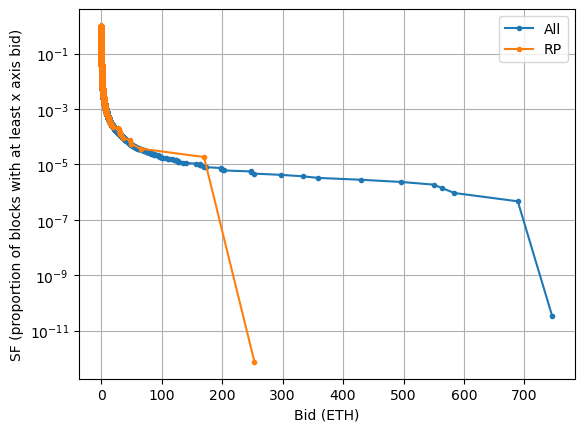
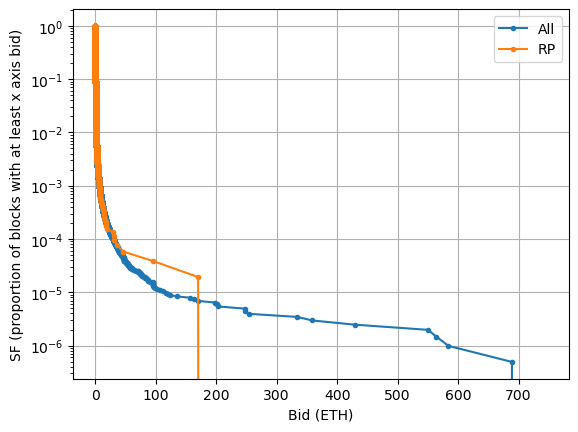
Analysis side submission candidate

diff --git a/analysis.py b/analysis.py
@@ -382,19 +382,9 @@ def main():
                     'eth_collat_ratio': wei2eth,  # (node capital + user capital) / node capital
                 }))
     df = pd.concat(df_ls)
-
     end_slot = int(p.name.split('-')[3].split('.')[0])
     assert end_slot != 0  # maybe hits if there's no data
-    slots = len(df)
-    wks = (slots * 12) / (60 * 60 * 24 * 7)
-    range_slots = end_slot - start_slot
-    range_wks = (range_slots * 12) / (60 * 60 * 24 * 7)
-    rethdict = get_rethdict(start_slot, end_slot)
-    print(f'Analyzing {wks:0.1f} weeks of data ({slots} slots)')
-    print(f' {100*slots/range_slots:0.1f}% of range; {range_wks:0.1f} weeks ({range_slots} slots)')
-    print('')
 
-    df = df[df['proposer_index'].notna()]  # get rid of slots without a block
     df['is_vanilla'] = df['mev_reward'].isna()  # make a convenience column
     try:
         assert ((sum(df['avg_fee'] > 0.2) + sum(df['avg_fee'] < 0.05)) == 0)  # sanity check
@@ -405,10 +395,27 @@ def main():
             print(over20)
         under5 = df[df['avg_fee'] < 0.05]
         if len(under5):
-            print('ERROR: under 5%')
+            print('ERROR: under 5%; related to incomplete solo migrations;'
+                  'setting is_rocketpool to False')
             print(under5)
+            df.loc[df['avg_fee'] < 0.05, 'is_rocketpool'] = False
     df['reth_portion'] = (1 - (df['avg_fee'])) * (1 - (1 / df['eth_collat_ratio']))
     df.set_index('slot', inplace=True)
+
+    # Slot 5203679 is when the grace period ended
+    penalty_start_slot = 5203679
+    df = df[df.index >= penalty_start_slot]
+    start_slot = max(start_slot, penalty_start_slot)
+
+    # Show total timeframe and get reth performance in that timeframe
+    slots = len(df)
+    wks = (slots * 12) / (60 * 60 * 24 * 7)
+    range_slots = end_slot - start_slot + 1
+    range_wks = (range_slots * 12) / (60 * 60 * 24 * 7)
+    rethdict = get_rethdict(start_slot, end_slot)
+    print(f'Analyzing {wks:0.1f} weeks of data ({slots} slots)')
+    print(f' {100*slots/range_slots:0.1f}% of range; {range_wks:0.1f} weeks ({range_slots} slots)')
+    print('')
 
     # find and set BID2REWARD
     global BID2REWARD
@@ -417,6 +424,7 @@ def main():
     BID2REWARD = df['temp'].mean()
     df.drop('temp', axis=1)
 
+    df = df[df['proposer_index'].notna()]  # get rid of slots without a block
     df = fix_bloxroute_missing_bids(df.copy())
 
     c_rcpt_mev = recipient_losses_mevboost(df.copy(), wks, rethdict.copy())

diff --git a/README.md b/README.md
@@ -4,9 +4,12 @@ fees and MEV, and detecting MEV theft. Built for the Rocket Pool GMC's
 [Bounty BA032304](https://dao.rocketpool.net/t/july-2023-gmc-call-for-bounty-applications-deadline-is-july-15th/1936/6).
 
 ## Analysis
-We'll start high level and then go deeper.
+We'll start high level and then go specific.
+We analyze 40.7 weeks of data, starting right after the MEV grace period ended at slot 5203679
+(2022-11-24 05:35:39Z UTC); see
+https://discord.com/channels/405159462932971535/405163979141545995/1044108182513012796.
 
-This first draft is looking at ~19 weeks of data.
+
 
 ### Global vs RP sanity check
 | ![image](./results/global_vs_rp.png)   | ![image](./results/global_vs_rp_loglog.png) |
@@ -31,23 +34,23 @@ be relied on, which is what we'd expect -- no evidence for different "luck" betw
 
 The plots above are likely the most important item in this analysis. They show whether we routinely
 see high bids on slots where either the recipient is wrong, vanilla blocks are used, or both. If we
-see these issues, especially for lottery blocks, that would be significant evidence of theft.
+routinely see these issues for lottery blocks, that would be significant evidence of theft.
 
 Evidence for this would look like an orange line being to the upper right of the blue line. Even
 more telling would be if this excursion only happened for blocks with high bids. We do not see any
 such evidence.
 
 - First row:
-  - 🚩 The line looks weird. The wrong recipient line is to the upper right of the blue line for the
-    0.1-0.4 ETH region. This is about 7 cases, so fairly sparse and potentially possible due to
-    chance. It's also not "worth" stealing as a penalty should be applied and will make this size
-    theft a net loss.
   - Overall, incorrect fee recipients using MEV boost are super rare; they follow the reference
-    well for most of the curve and have no real lotto blocks to date
-- Second row: if anything, it looks like RP blocks occur in slots with lower max bids. One theory to
-  explain this would be that folks likely to use vanilla blocks don't use many relays, which means
-  they get smaller max-bids on average. Another theory is that we don't see the lines diverge until
-  we're starting to get sparser, so it may simply be happenstance.
+    well for most of the curve and have no real lotto blocks to date.
+  - 🤔 The line looks a little weird. The wrong recipient line is to the upper right of the blue
+    line for the 0.2-0.4 ETH region. This is only a handful of cases, so fairly sparse and
+    likely due to chance. It's also not "worth" stealing as a penalty should be applied and will
+    make this size theft a net loss.
+- Second row: if anything, it looks like vanilla blocks are underrepresented in slots with high max
+  bids. One theory to explain this would be that folks likely to use vanilla blocks don't use many
+  relays, which means they get smaller max-bids on average. Another (imo less likely) theory is that
+  we don't see the lines diverge until we're starting to get sparser, so it may simply be chance.
 - Third row: these match as well as plausible.
 
 It's important to recognize a couple of limitations. First, the sample size for large blocks is very
@@ -69,100 +72,77 @@ that block.
 
 There's no significant difference.
 
-### Current losses
-
-Running `analysis.py` provides some text in addition to making the plots:
-
-```
-Analyzing 43.0 weeks of data (2165000 slots)
- 95.6% of range; 44.9 weeks (2264999 slots)
- 
-Filled in proxy max_bids for 22113 slots; 21027 were missingbloxroute max_bids
-
-=== MEV-Boost Recipient losses  (see results/recipient_losses.csv) ===
-1: 18 of 48699 MEV-boost slots used wrong fee recipient
-3a: 1.328 total ETH lost due to wrong fee recipient
-  Top 5 losses: 0.30, 0.23, 0.14, 0.12, 0.09
-3b: 0.031 ETH lost per week
-3c: APY was 4.411% when it should have been 4.412%
- aka, a 0.01% performance hit
-
-=== Vanilla Recipient losses (see results/vanilla_losses.csv) ===
- 830 of 5193 vanilla slots used wrong fee recipient (see results/recipient_losses_vanilla.csv)
-~46.945 total ETH lost due to wrong fee recipient
-  Top 5 losses: 1.51, 1.30, 0.80, 0.72, 0.67
-~1.093 ETH lost per week
- APY was ~4.411% when it should have been 4.422%
- aka, a 0.25% performance hit
-NB: We take a stab at vanilla losses using 90% of max_bid or sum of priority_fees, but it's possible for vanilla blocks without max_bid to hide offchain fees
-
-=== Non-recipient vanilla losses (see results/vanilla_losses.csv) ===
-There were 4363 vanilla RP blocks w/correct recipient
-  3576 had bids; we can get ~loss
-  787 had no bid; we'll use nearby bids as a guess
-4a: ~188.868 ETH lost due to not using relays (or theft)
-  Top 5 losses: 17.23, 5.54, 5.10, 5.07, 3.00
-4b: ~4.397 ETH lost per week
-4c: APY was 4.411% when it could have been ~4.455%
- aka, a 0.99% performance hit
-
-Sanity checking 2 ways of estimating the unknown loss: 49.705 vs 27.776
- if first method is much higher, that means we're seeing vanilla block more often than expected during periods that tend to have high max bids, which is a yellow flag... do note that outliers can move these a lot with respect to each other
-WARNING: 18 slots had no nearby max_bids;filling with mean max_bid
-
-```
-
-Some takeaways:
-- 🚩 There are much too many vanilla blocks with wrong recipient - around 16% of vanilla blocks!
-  - These haven't been a huge loss (0.1% performance), but this loss can appropriately be penalized
-- Vanilla blocks in general have been a significant loss (0.99% degradation in performance)
-  - Note that ~9% of that is a single block
-
 ### Vanilla blocks: RP vs nonRP sanity check
 | ![image](./results/vanilla_rp_vs_nonrp.png) | ![image](./results/vanilla_rp_vs_nonrp_loglog.png) |
 |:-------------------------------------------:|:--------------------------------------------------:|
 
 The plot above shows a survival function for bids on RP vanilla blocks vs non-RP vanilla blocks.
-Ideally we'd expect the same curves to be followed. They mostly are, and we can guess that the
-slightly lower RP values are due to vanilla RP users having fewer relays registered which leads to
-lower max bids.
+Ideally we'd expect the same curves to be followed. They mostly are.
+
+
+### Current losses
+
+Running `analysis.py` provides some text in addition to making the plots:
+
+```
+Analyzing 40.7 weeks of data (2051321 slots)
+ 100.0% of range; 40.7 weeks (2051321 slots)
+
+bid2reward: mean=0.906 median=0.952
+
+Filled in proxy max_bids for 19363 slots; 18280 were missingbloxroute max_bids
+
+=== MEV-Boost Recipient losses  (see results/recipient_losses.csv) ===
+1: 13 of 46987 MEV-boost slots used wrong fee recipient
+3a: 0.874 total ETH lost due to wrong fee recipient
+  Top 5 losses: 0.23, 0.14, 0.12, 0.09, 0.08
+3b: 0.021 ETH lost per week
+3c: APY was 4.401% when it should have been 4.401%
+ aka, a 0.00% performance hit
+
+=== Vanilla Recipient losses (see results/vanilla_losses.csv) ===
+ 688 of 4789 vanilla slots used wrong fee recipient (see results/recipient_losses_vanilla.csv)
+~37.048 total ETH lost due to wrong fee recipient
+  Top 5 losses: 1.30, 0.80, 0.72, 0.67, 0.58
+~0.910 ETH lost per week
+ APY was ~4.401% when it should have been 4.410%
+ aka, a 0.21% performance hit
+NB: We take a stab at vanilla losses using 90% of max_bid or sum of priority_fees, but it's possible
+for vanilla blocks without max_bid to hide offchain fees
+
+=== Non-recipient vanilla losses (see results/vanilla_losses.csv) ===
+There were 4101 vanilla RP blocks w/correct recipient
+  3442 had bids; we can get ~loss
+  659 had no bid; we'll use nearby bids as a guess
+4a: ~165.494 ETH lost due to not using relays (or theft)
+  Top 5 losses: 17.24, 5.10, 5.07, 3.00, 2.77
+4b: ~4.066 ETH lost per week
+4c: APY was 4.401% when it could have been ~4.441%
+ aka, a 0.91% performance hit
+
+Sanity checking 2 ways of estimating the unknown loss: 43.371 vs 20.129
+ if first method is much higher, that means we're seeing vanilla block more often than expected
+ during periods that tend to have high max bids, which is a yellow flag... do note that outliers can
+ move these a lot with respect to each other
+```
+
+Some takeaways:
+- 🚩 There are much too many vanilla blocks with wrong recipient - around 14% of vanilla blocks!
+  - These haven't been a huge loss (0.21% performance), but it's not negligible and should be
+    penalized properly
+- Vanilla blocks in general have been a significant loss (0.91% degradation in performance)
+  - Note that ~10.4% of that is a single block
+
 
 ### Conclusions
-- 🚩❓ Something is potentially weird about the bad recipient MEV boost data.
-  - It doesn't appear like it would be profitable in the face of penalties
-  - We should assign penalties
 - 🚩 There are much too many vanilla blocks with wrong recipient - around 16% of vanilla blocks!
   - We should assign penalties
   - We should consider other mitigation (eg, disallow vanilla blocks entirely)
+- We should assign penalties for bad recipient using MEV boost as well
 - Losses are a small, but not totally negligible, decrease in performance
-  - MEV bad recipient: 0.01%
-  - Vanilla bad recipient: 0.25%
-  - Vanilla correct recipient: 0.99%
-  - This adds up to 1.25%. To put that in perspective: as of 2023-09-04, this is equivalent drag to
-    7.1k idle ETH (eg, in the deposit pool)
-    
-
-### For reference: goals per the bounty
-
-```
-Detail level
-1) For each MEV-boost block, check if an acceptable fee recipient was used
-2) For each vanilla block, calculate how much was lost by not using MEV-boost
-
-High level
-3) Losses due to wrong fee recipient
-  3a) Total ETH
-  3b) ETH per period
-  3c) Effect on APR
-4) Losses due to not using MEV-boost
-  4a) Total ETH
-  4b) ETH per period
-  4c) Effect on APR
-5) Distribution of MEV-boost bids for
-  5a) All block
-  5b) All RP blocks
-  5c) :star: All RP blocks that use MEV-boost w/correct fee recipient
-  5d) :star: All RP blocks that use MEV-boost w/wrong fee recipient
-  5e) :star: All vanilla RP blocks
-```
-
+  - MEV bad recipient: 0.00%
+  - Vanilla bad recipient: 0.21%
+  - Vanilla correct recipient: 0.91%
+  - This adds up to 1.12%
+    - To put that in perspective: as of 2023-09-05, this is equivalent drag to
+      5.4k idle ETH (eg, in the deposit pool)

diff --git a/README_tools.md b/README_tools.md
@@ -1,23 +1,32 @@
-## Tools for data gathering
-### Dependencies
-- [nodejs & npm](https://nodejs.org/en)
-- [jq](https://jqlang.github.io/jq/)
-- [g[un]zip](https://www.gnu.org/software/gzip/)
-- Access to an Ethereum archive node, providing JSON-RPC for both execution & consensus (beacon) APIs.
-- [Flashbots Boost Relay Data](https://flashbots-boost-relay-public.s3.us-east-2.amazonaws.com/index.html)
+## Getting data for rETH balances
+### File format
+describe what the columns are, that they're in hex, blah, blah. Consider an example
 
-### Installation
-- `npm install` to install the Node.js dependencies.
-- Download the Flashbots Boost relay data `.json.gz` files (for the desired slots to analyse) into the `data` directory.
+### Downloading balances.jsonl
+The file is available at https://github.com/xrchz/rockettrack/blob/main/balances.jsonl
 
-### Usage
-- Run `./submissions-to-bids.sh data/builder-submissions_slot-<fromSlot>-to-<toSlot>.json.gz` for each of the relay data files.
-- See `node run --help` for more options.
-- `node run -s <fromSlot> -t <toSlot>` to create a csv file `data/mevtheft_slot-<fromSlot>-to-<toSlot>.csv` with analysis data.
+### Generating balances.jsonl
+high level description of what to do, then go into using the tool as it exists on rockettrack
+
+#### Dependencies
+
+#### Usage
+
+
+## Getting data for rETH balances
+### File format
+describe what the columns are, blah, blah. Include an example
+`slot,max_bid,max_bid_relay,mev_reward,mev_reward_relay,proposer_index,is_rocketpool,node_address,in_smoothing_pool,correct_fee_recipient,priority_fees,avg_fee,eth_collat_ratio`
+
+### Generating csvs
+high level description of what to do, then go into using the tool as it exists on rockettrack
+
+#### Dependencies
+
+#### Usage
 
 
 ## Tools for analysis
-
 ### Dependencies
 - python3
 - python libraries: matplotlib, numpy, pandas
